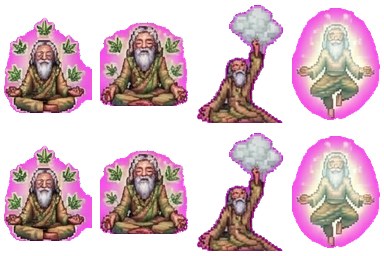
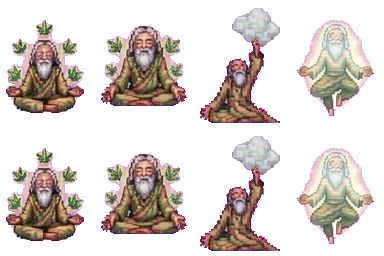
Changes

diff --git a/public/game.html b/public/game.html
@@ -1281,7 +1281,7 @@ const SKINS=[
   {id:'bubi',       name:'Bubi',        price:900,  community:true, rarity:'legendary', img:'/__l5e/assets-v1/0d932b0c-c6bc-4130-9118-3954d4d3e222/bubi-atlas.png',anchorY:0.88,frames:8,frameW:320,frameH:250,bgKey:'atlas'},
   {id:'bebi',       name:'Bebi',        price:900,  community:true, rarity:'legendary', img:'/__l5e/assets-v1/418ee147-9c65-4884-9d13-54683c841d97/bebi-atlas.png',anchorY:0.88,frames:8,frameW:320,frameH:250,bgKey:'atlas'},
   {id:'kosmonaut',  name:'Der Kosmonaut',price:2000, community:true, rarity:'legendary', img:'sets/kosmonaut.png',   anchorY:0.82,frames:8,frameW:96,frameH:128,bgKey:'atlas',bundleOnly:true},
-  {id:'ganjaguru',  name:'Der Ganja-Guru',price:2000,community:true, rarity:'legendary', img:'sets/ganja-guru.png',  anchorY:0.82,frames:8,frameW:96,frameH:128,bgKey:'atlas',bundleOnly:true},
+  {id:'ganjaguru',  name:'Der Ganja-Guru',price:2000,community:true, rarity:'legendary', img:'sets/ganja-guru.png?v=3',  anchorY:0.82,frames:8,frameW:96,frameH:128,bgKey:'atlas',bundleOnly:true},
   {id:'cyberkiffer',name:'Der Cyber-Kiffer',price:2000,community:true,rarity:'legendary', img:'sets/cyber-kiffer.png',anchorY:0.82,frames:8,frameW:96,frameH:128,bgKey:'atlas',bundleOnly:true},
   // ---- STONED LEGENDS (nur im Paket) ----
   {id:'cheetahchaplin',name:'Cheetah Chaplin',price:3200,community:true,rarity:'legendary',img:'skins/cheetahchaplin.png',anchorY:0.70,bundleOnly:true},
@@ -1311,7 +1311,7 @@ const SKINS=[
   {id:'bonebard',      name:'Bone Bard',      price:900, community:true,rarity:'rare',     img:'skins/bone-bard.png?v=2',       anchorY:0.76},
   {id:'wastelandraider',name:'Wasteland Raider',price:1300,community:true,rarity:'epic',   img:'skins/wasteland-raider.png?v=2',anchorY:0.76},
   {id:'pixeldrake',    name:'Pixel Drake',    price:1700,community:true,rarity:'epic',     img:'skins/pixel-drake.png?v=2',     anchorY:0.76},
-  {id:'redwolf',       name:'Red Wolf',       price:2100,community:true,rarity:'legendary',img:'skins/red-wolf.png?v=2',       anchorY:0.76},
+  {id:'redwolf',       name:'Red Wolf',       price:2100,community:true,rarity:'legendary',img:'skins/red-wolf.png?v=3',       anchorY:0.76},
   {id:'shadowduck',    name:'Shadow Duck',    price:700, community:true,rarity:'rare',     img:'skins/shadow-duck.png?v=2',     anchorY:0.76},
   {id:'nightreaper',   name:'Night Reaper',   price:2400,community:true,rarity:'legendary',img:'skins/night-reaper.png?v=2',    anchorY:0.76},
   {id:'bananasloth',   name:'Banana Sloth',   price:2800,community:true,rarity:'mythic',   img:'skins/banana-sloth.png?v=2',    anchorY:0.76},
